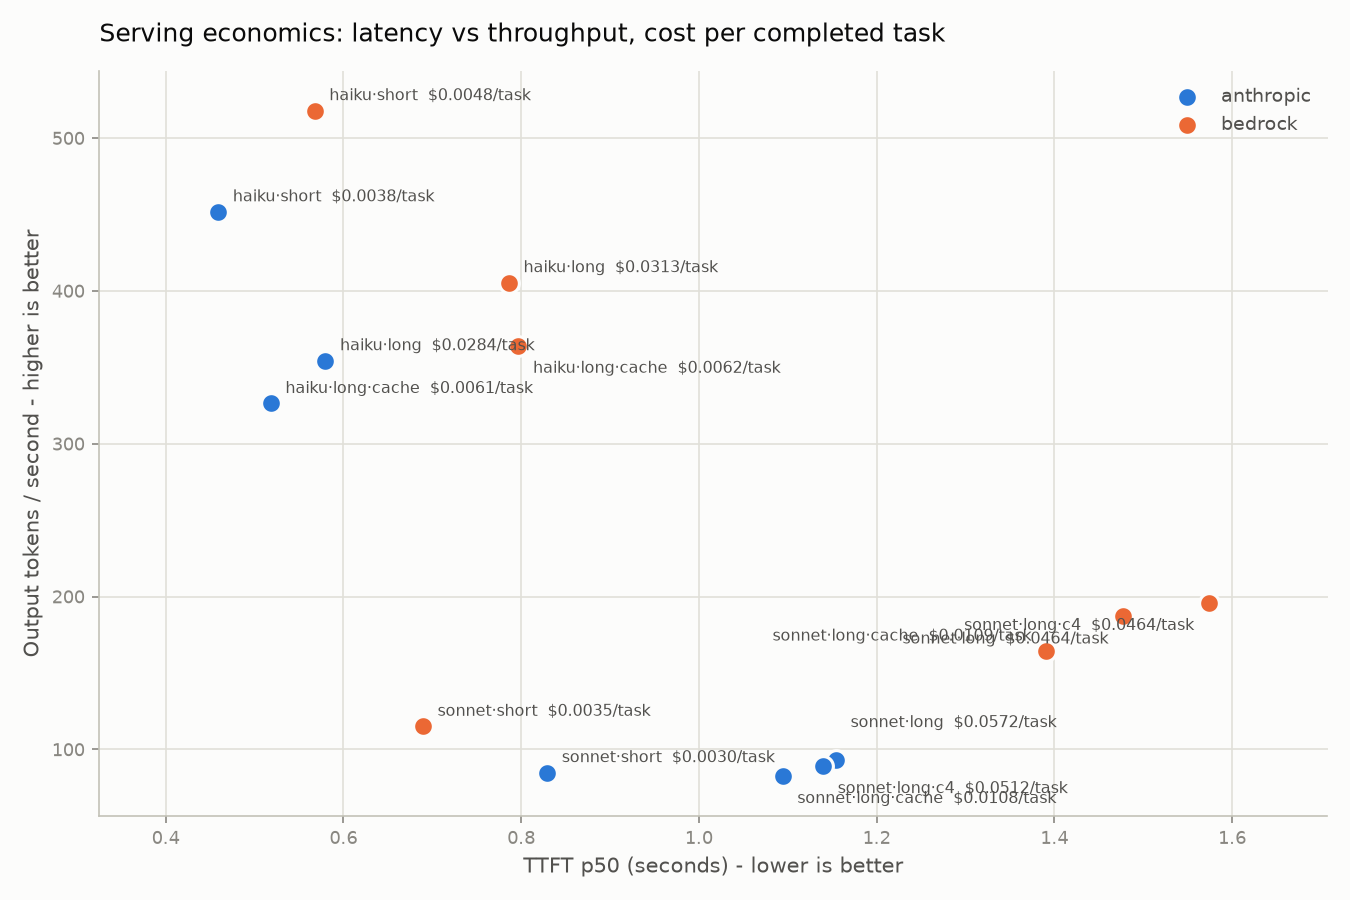
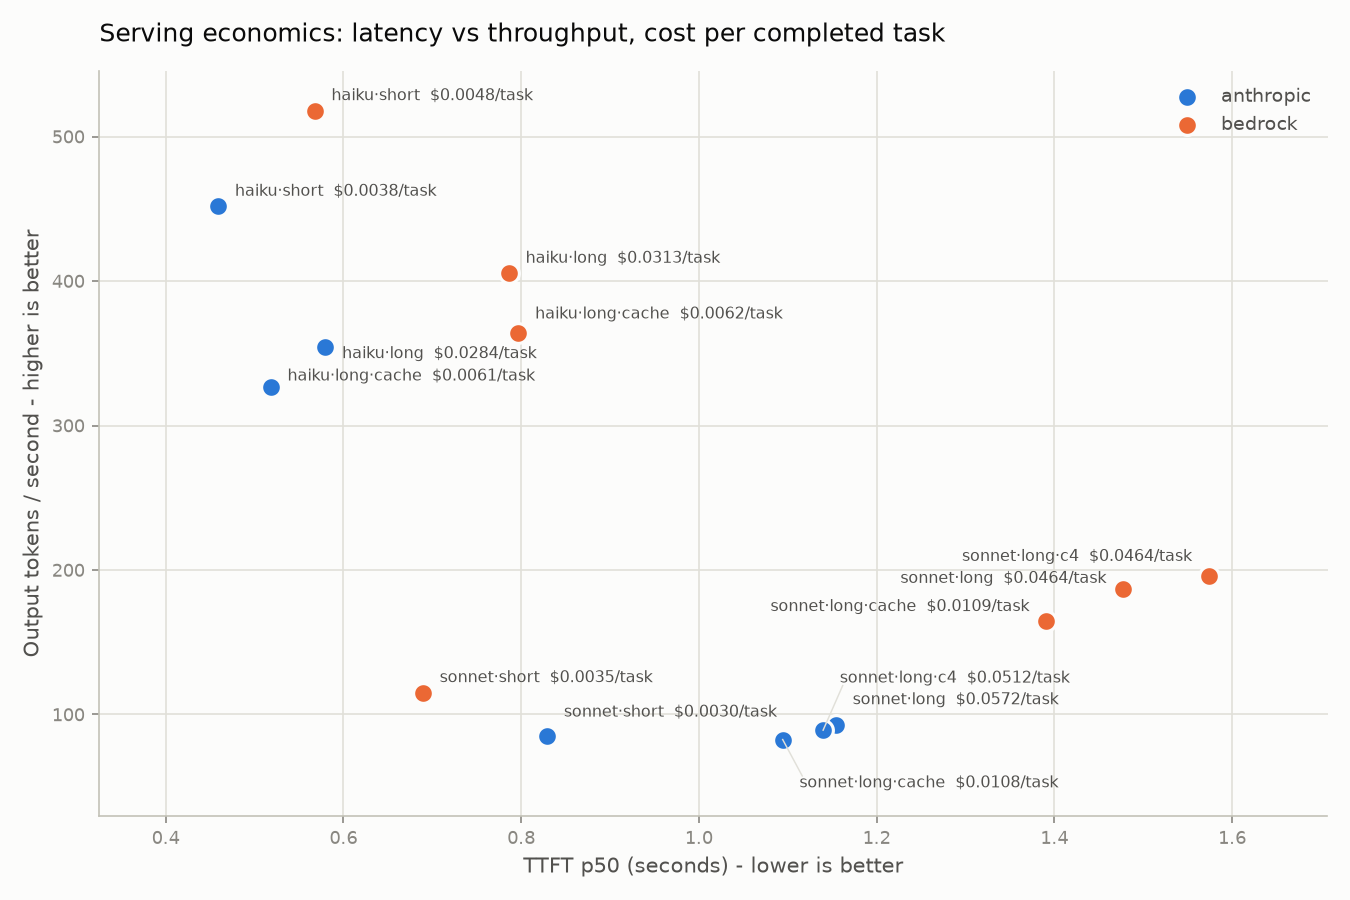
analyze: collision-free label layout (measured bounding boxes, point avoidance, leader lines)

diff --git a/analyze.py b/analyze.py
@@ -203,25 +203,67 @@ def write_chart(cells: list[dict], any_mock: bool) -> None:
         xr = (max(all_x) - min(all_x)) or 1.0
         yr = (max(all_y) - min(all_y)) or 1.0
         ax.margins(x=0.12, y=0.06)  # headroom so edge labels stay inside
-        placed: list[tuple[float, float]] = []
-        stagger = [(7, 5), (7, -13), (7, 16), (7, -24), (7, 27)]
+        # Two-pass label layout (26 Jul): place labels, measure their real
+        # rendered bounding boxes, push overlapping pairs apart vertically,
+        # then draw leader lines for any label that settles far from its
+        # point. Replaces the proximity-count stagger, which collided in
+        # dense clusters because it never measured label width.
+        fig = ax.figure
+        annos = []
         for c, x, y in sorted(plotted, key=lambda t: (t[1], -t[2])):
             cost = c["cost_per_completed_task"]
             cost_txt = f"  ${cost:,.4f}/task" if cost is not None else "  $ n/a"
-            # "Near" accounts for label width: a rendered label spans roughly
-            # a quarter of the x range at this figure size, so any placed
-            # point within that band and about one text row vertically forces this
-            # label onto the next stagger slot.
-            near = sum(1 for px, py in placed
-                       if abs(px - x) < 0.25 * xr and abs(py - y) < 0.055 * yr)
-            dx, dy = stagger[min(near, len(stagger) - 1)]
             right_edge = x > max(all_x) - 0.18 * xr
-            ax.annotate(label_for(c) + cost_txt, (x, y),
-                        textcoords="offset points",
-                        xytext=(-dx, dy) if right_edge else (dx, dy),
-                        ha="right" if right_edge else "left",
-                        fontsize=7.5, color=INK_2, zorder=4)
-            placed.append((x, y))
+            a = ax.annotate(label_for(c) + cost_txt, (x, y),
+                            textcoords="offset points",
+                            xytext=(-8, 5) if right_edge else (8, 5),
+                            ha="right" if right_edge else "left",
+                            fontsize=7.5, color=INK_2, zorder=4)
+            annos.append((a, x, y))
+        fig.canvas.draw()
+        renderer = fig.canvas.get_renderer()
+        px_to_pt = 72.0 / fig.dpi
+        for _ in range(80):
+            moved = False
+            boxes = [a.get_window_extent(renderer) for a, _, _ in annos]
+            for i in range(len(annos)):
+                for j in range(i + 1, len(annos)):
+                    bi, bj = boxes[i], boxes[j]
+                    if bi.overlaps(bj):
+                        push_px = (min(bi.y1, bj.y1) - max(bi.y0, bj.y0)) / 2 + 3
+                        lo, hi = (i, j) if bi.y0 <= bj.y0 else (j, i)
+                        for k, sign in ((lo, -1), (hi, +1)):
+                            a = annos[k][0]
+                            ox, oy = a.xyann
+                            a.xyann = (ox, oy + sign * push_px * px_to_pt)
+                        moved = True
+                        boxes = [a.get_window_extent(renderer) for a, _, _ in annos]
+            # labels must also clear every data point, not just each other
+            pt_px = [ax.transData.transform((x, y)) for _, x, y in annos]
+            boxes = [a.get_window_extent(renderer) for a, _, _ in annos]
+            for i, (a, _, _) in enumerate(annos):
+                bb = boxes[i]
+                for j, (cx, cy) in enumerate(pt_px):
+                    if j == i:
+                        continue
+                    if (bb.x0 - 8 < cx < bb.x1 + 8) and (bb.y0 - 8 < cy < bb.y1 + 8):
+                        sign = 1 if bb.y0 + bb.height / 2 >= cy else -1
+                        push_px = (bb.y1 - cy + 10) if sign == 1 else (cy - bb.y0 + 10)
+                        ox, oy = a.xyann
+                        a.xyann = (ox, oy + sign * push_px * px_to_pt)
+                        moved = True
+            if not moved:
+                break
+        inv = ax.transData.inverted()
+        for a, x, y in annos:
+            _, oy = a.xyann
+            if abs(oy) > 16:
+                bb = a.get_window_extent(renderer)
+                pxy = ax.transData.transform((x, y))
+                ex = min(max(pxy[0], bb.x0), bb.x1)
+                ey = bb.y0 if pxy[1] < bb.y0 else (bb.y1 if pxy[1] > bb.y1 else pxy[1])
+                lx, ly = inv.transform((ex, ey))
+                ax.plot([x, lx], [y, ly], color=GRID, linewidth=0.7, zorder=3)
 
     ax.set_xlabel("TTFT p50 (seconds) - lower is better", color=INK_2, fontsize=10)
     ax.set_ylabel("Output tokens / second - higher is better", color=INK_2, fontsize=10)
